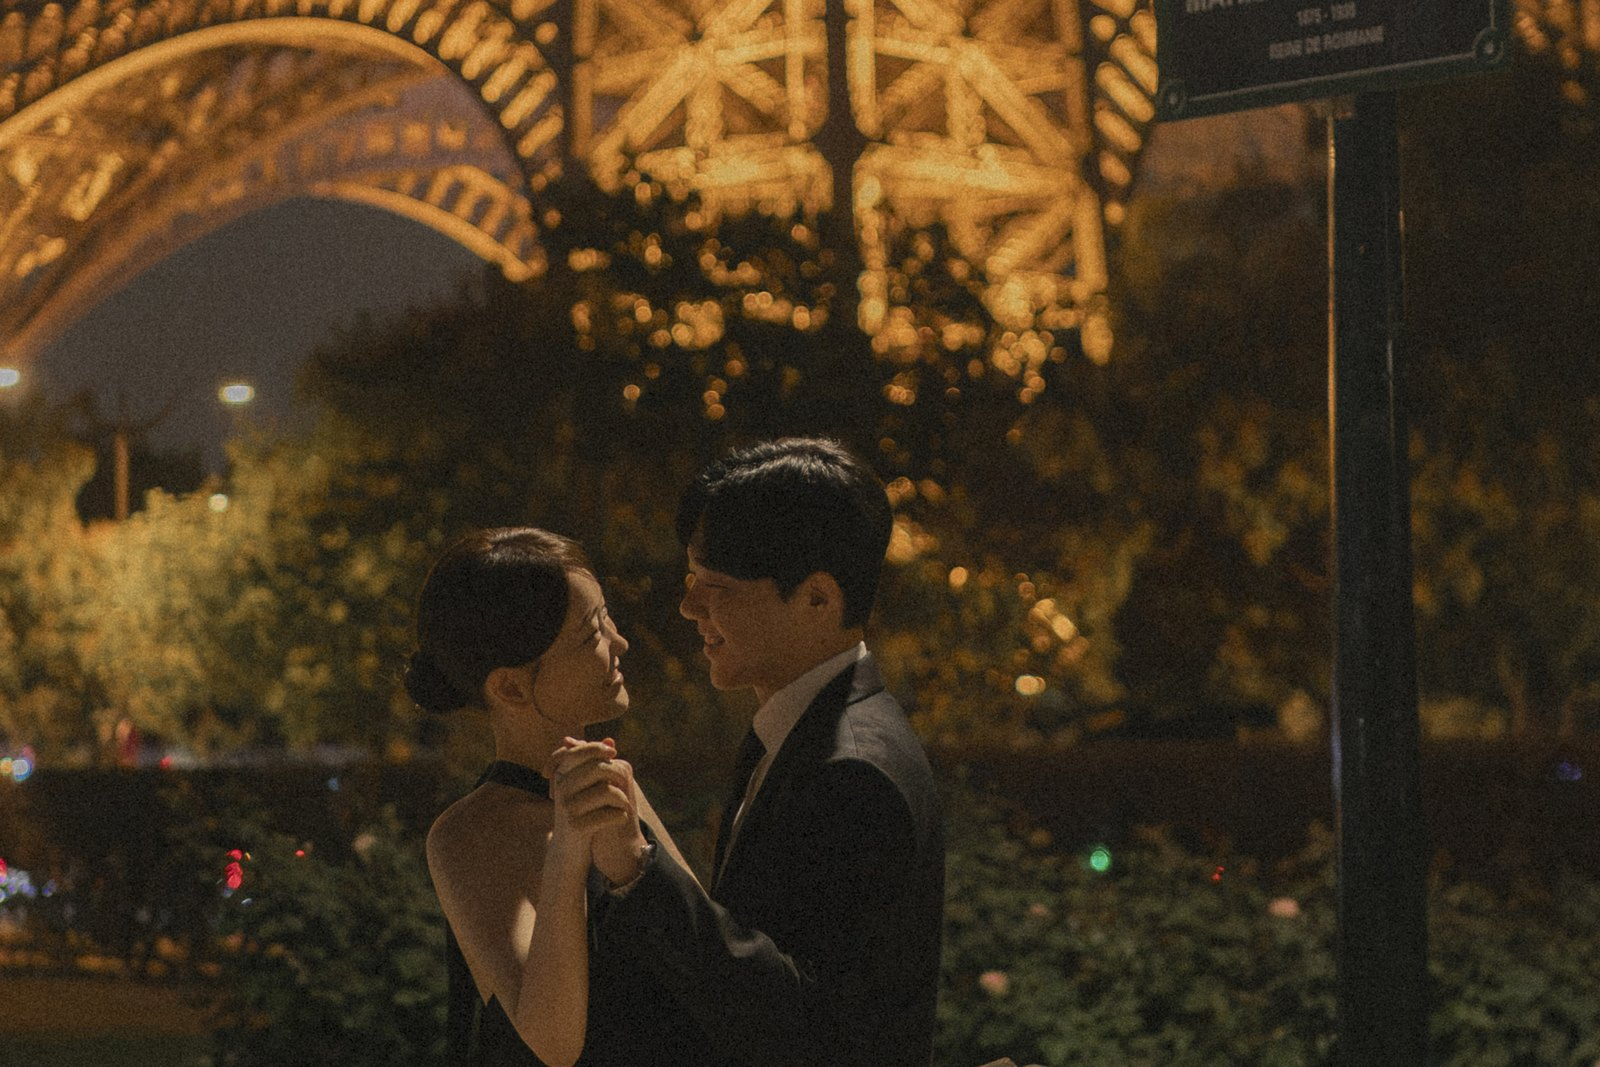
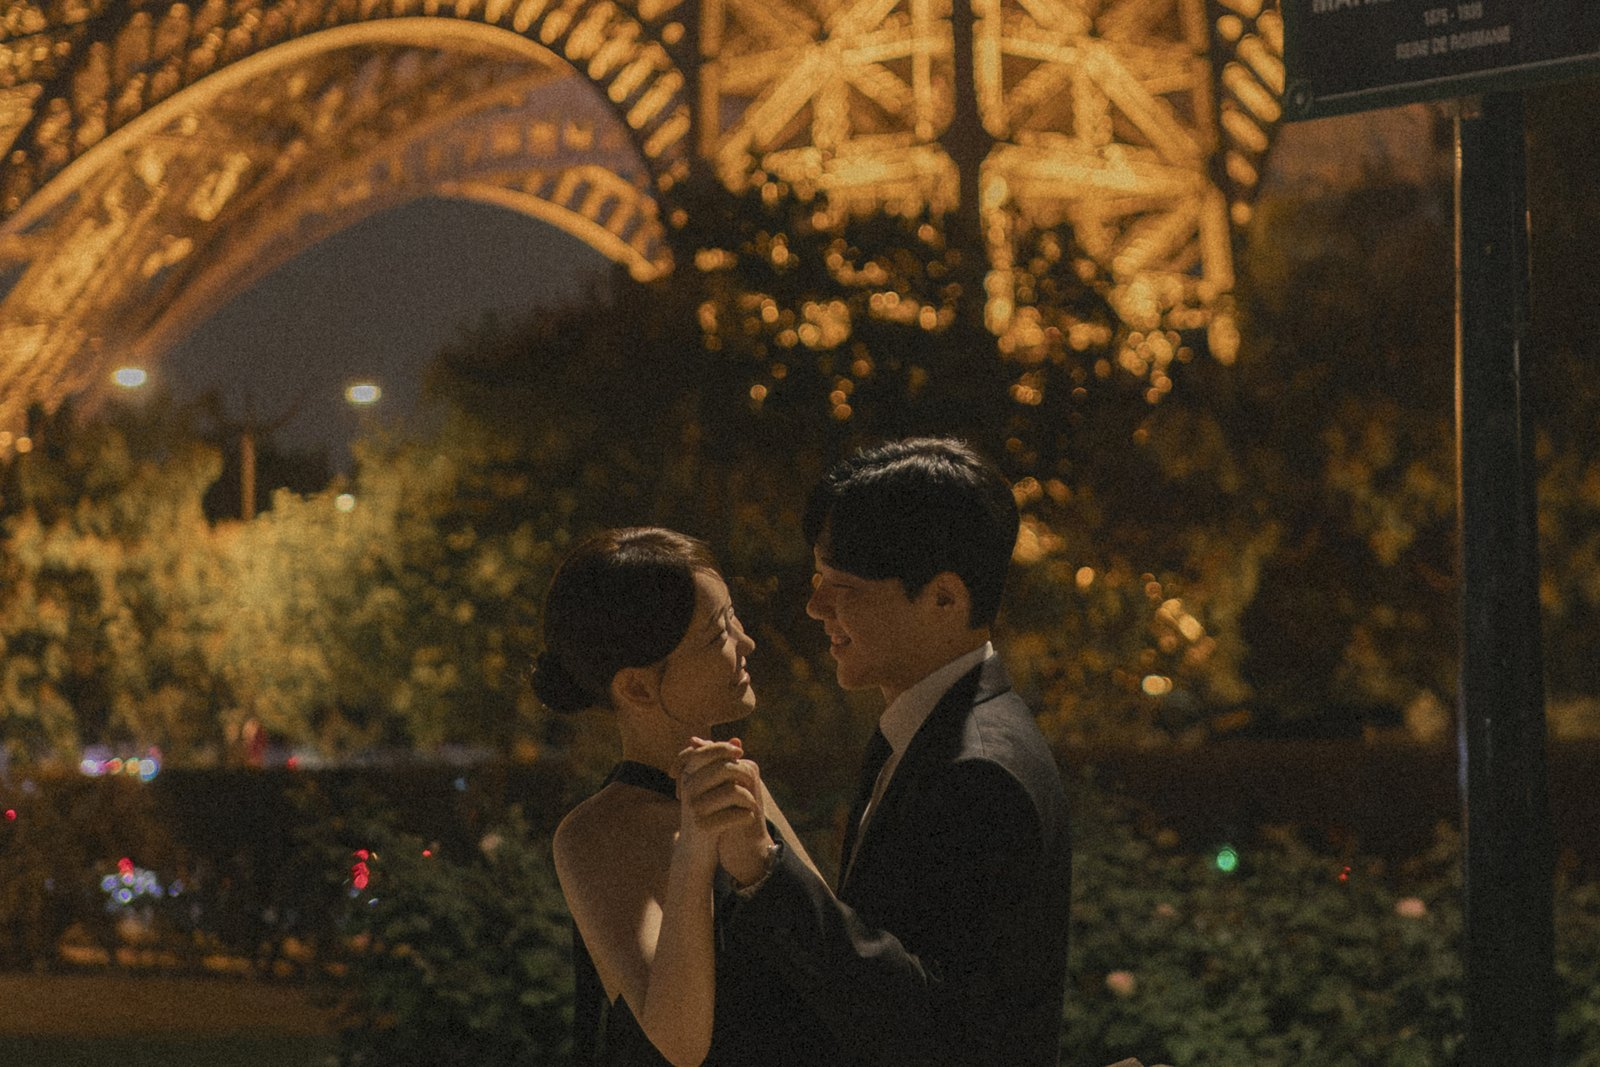
v5: center couple in wide LUS07572
Claude-Session: https://claude.ai/code/session_0199kwzThmkJ9gjgMp94kiiT

diff --git a/v5/index.html b/v5/index.html
@@ -553,7 +553,7 @@ html.rv-on .rv.in { opacity: 1; transform: none; }
     </div>
   </section>
 
-  <figure class="g-photo g-photo2"><img src="r/LUS07572_w.jpg?v=1" alt="불 켜진 에펠탑 아래 마주 보는 신랑 신부" width="1600" height="1067" loading="lazy" decoding="async"></figure>
+  <figure class="g-photo g-photo2"><img src="r/LUS07572_w.jpg?v=2" alt="불 켜진 에펠탑 아래 마주 보는 신랑 신부" width="1600" height="1067" loading="lazy" decoding="async"></figure>
 
   <section class="pad greeting greeting-fam">
     <div class="stack">
@@ -970,7 +970,7 @@ html.rv-on .rv.in { opacity: 1; transform: none; }
 (function () {
   /* ▼ 여기만 바꾸면 됩니다 ▼ */
   var KAKAO_JS_KEY = '1e75ce76e7372491e4b502ebba8c8f0d';
-  var VER          = '11082012';   // 업데이트할 때마다 바뀌는 번호 — 카톡이 예전 페이지를 다시 보여주지 않게
+  var VER          = '11082013';   // 업데이트할 때마다 바뀌는 번호 — 카톡이 예전 페이지를 다시 보여주지 않게
   var SITE_URL     = 'https://hsjeong14.github.io/wedding/v5/?v=' + VER;          // 청첩장 주소
   var MAP_URL      = 'https://hsjeong14.github.io/wedding/v5/?v=' + VER + '#location'; // '식장 위치 보기'가 열 주소
   var IMAGE_URL    = 'https://hsjeong14.github.io/wedding/share-v5.jpg';  // 900 x 1200 (3:4) 세로 썸네일
